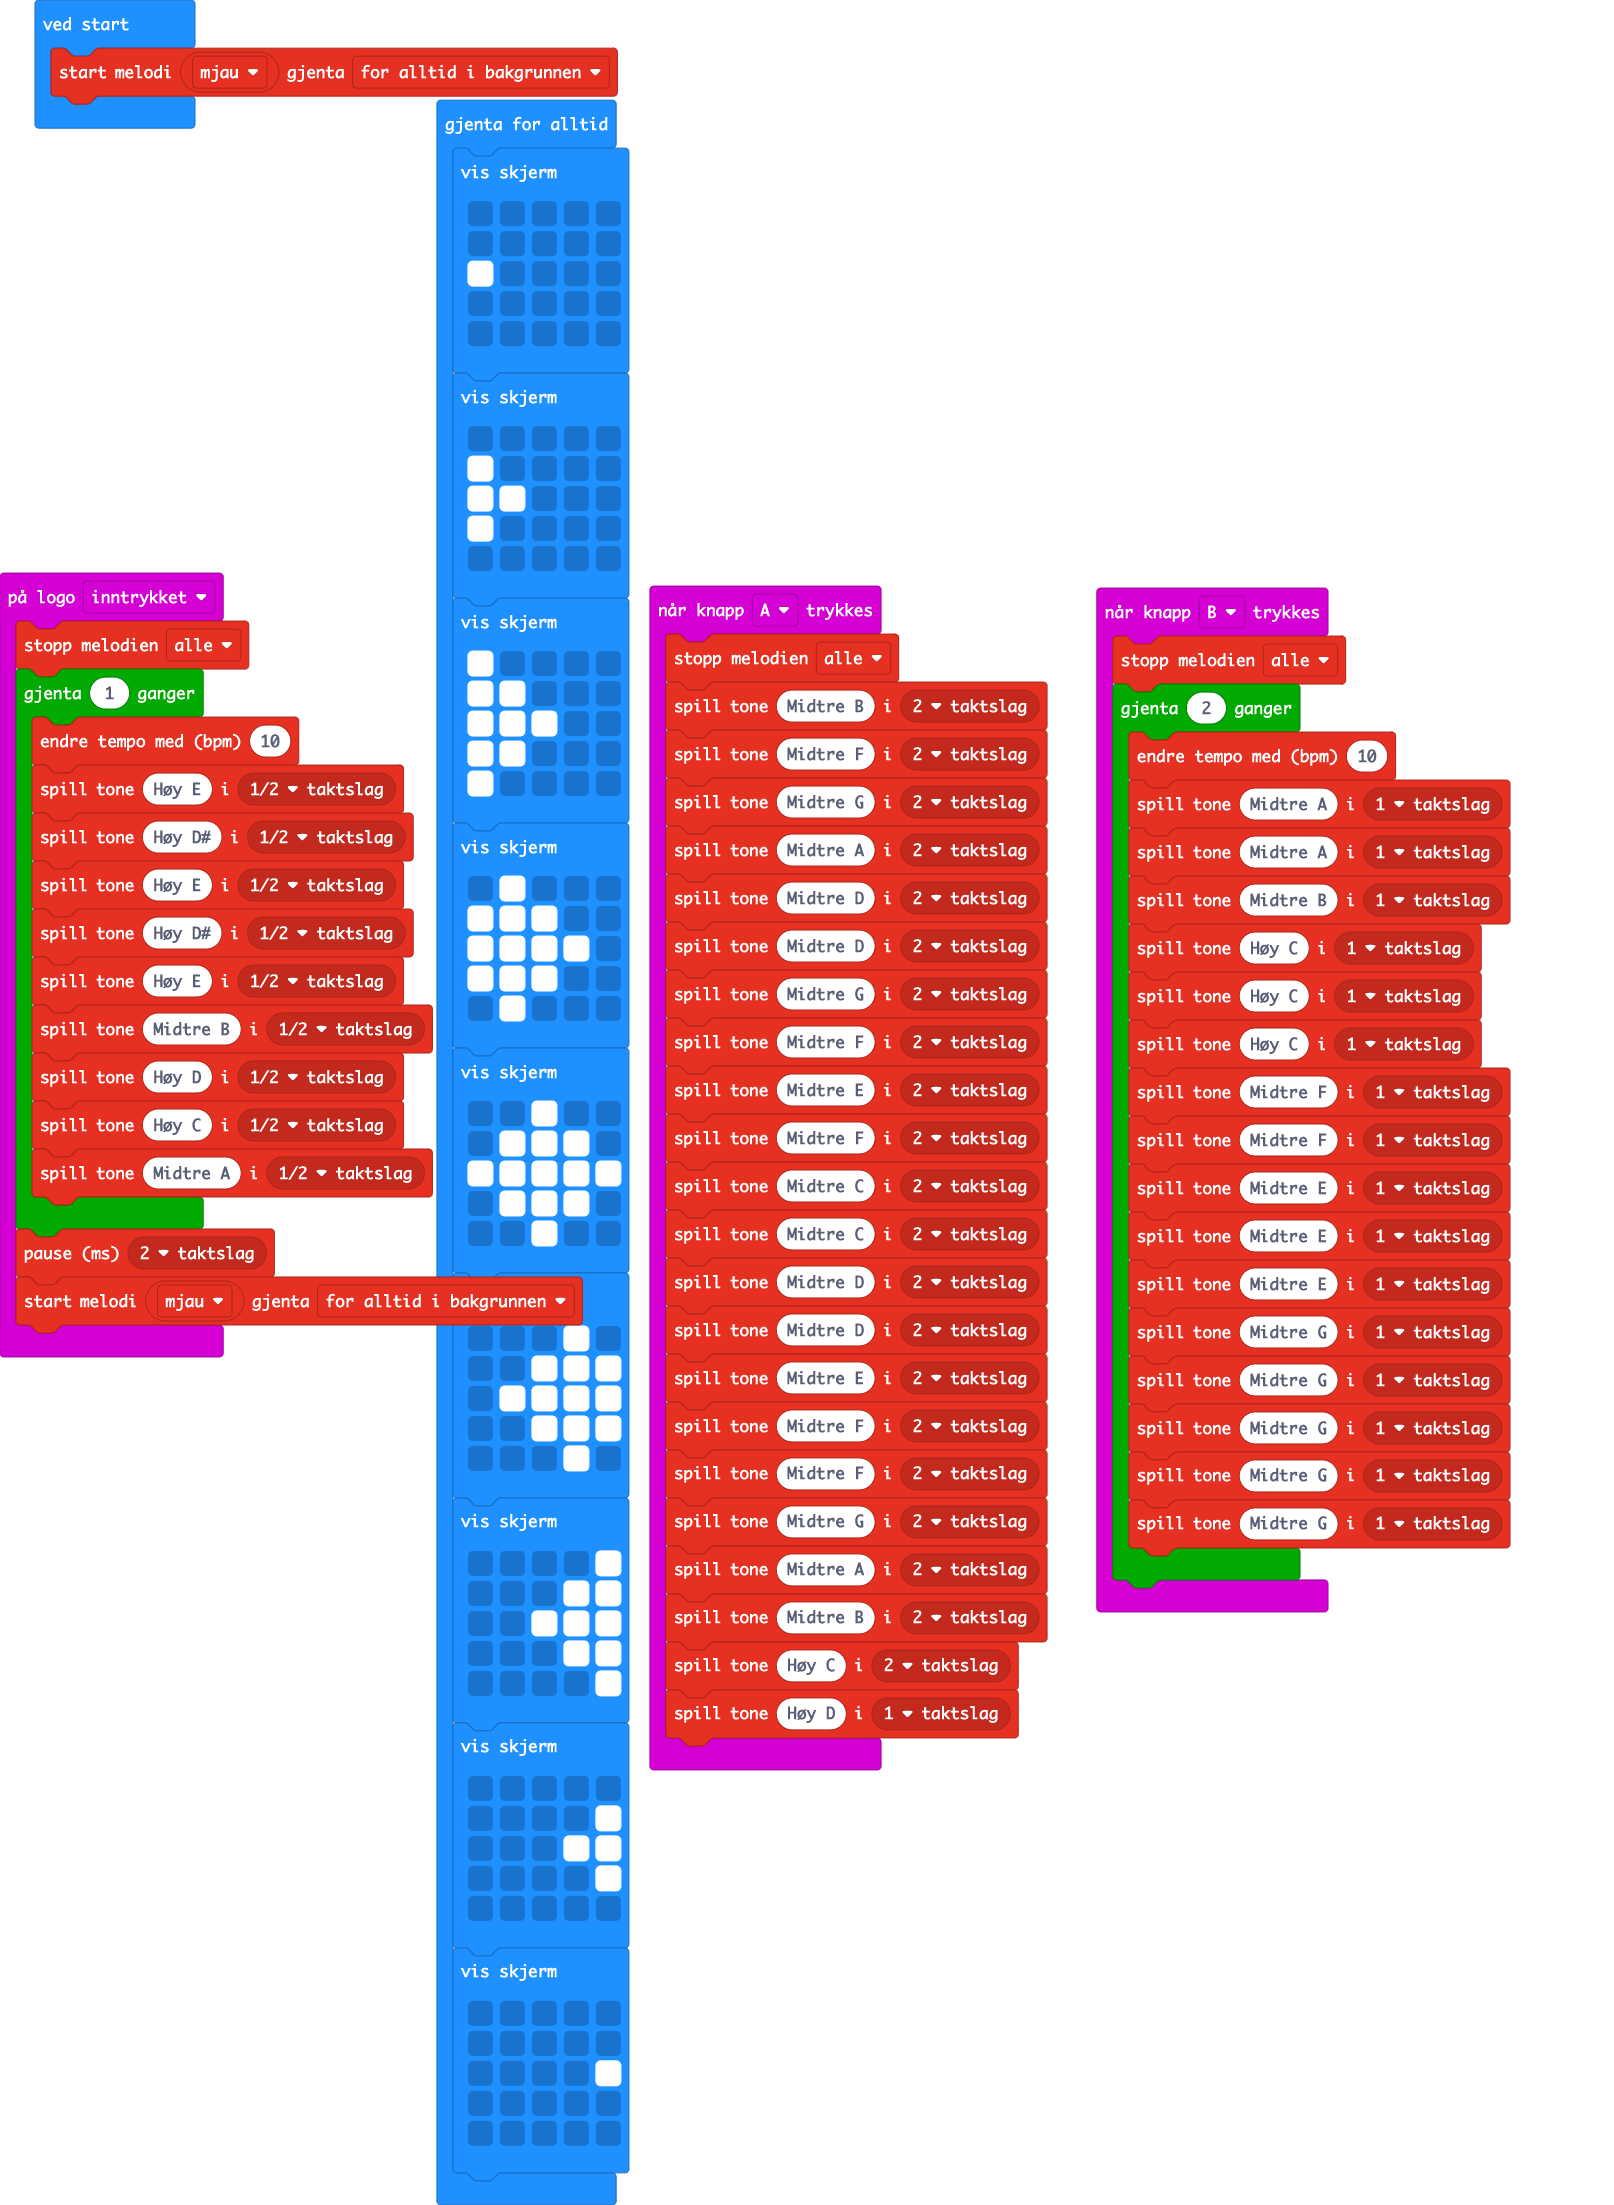
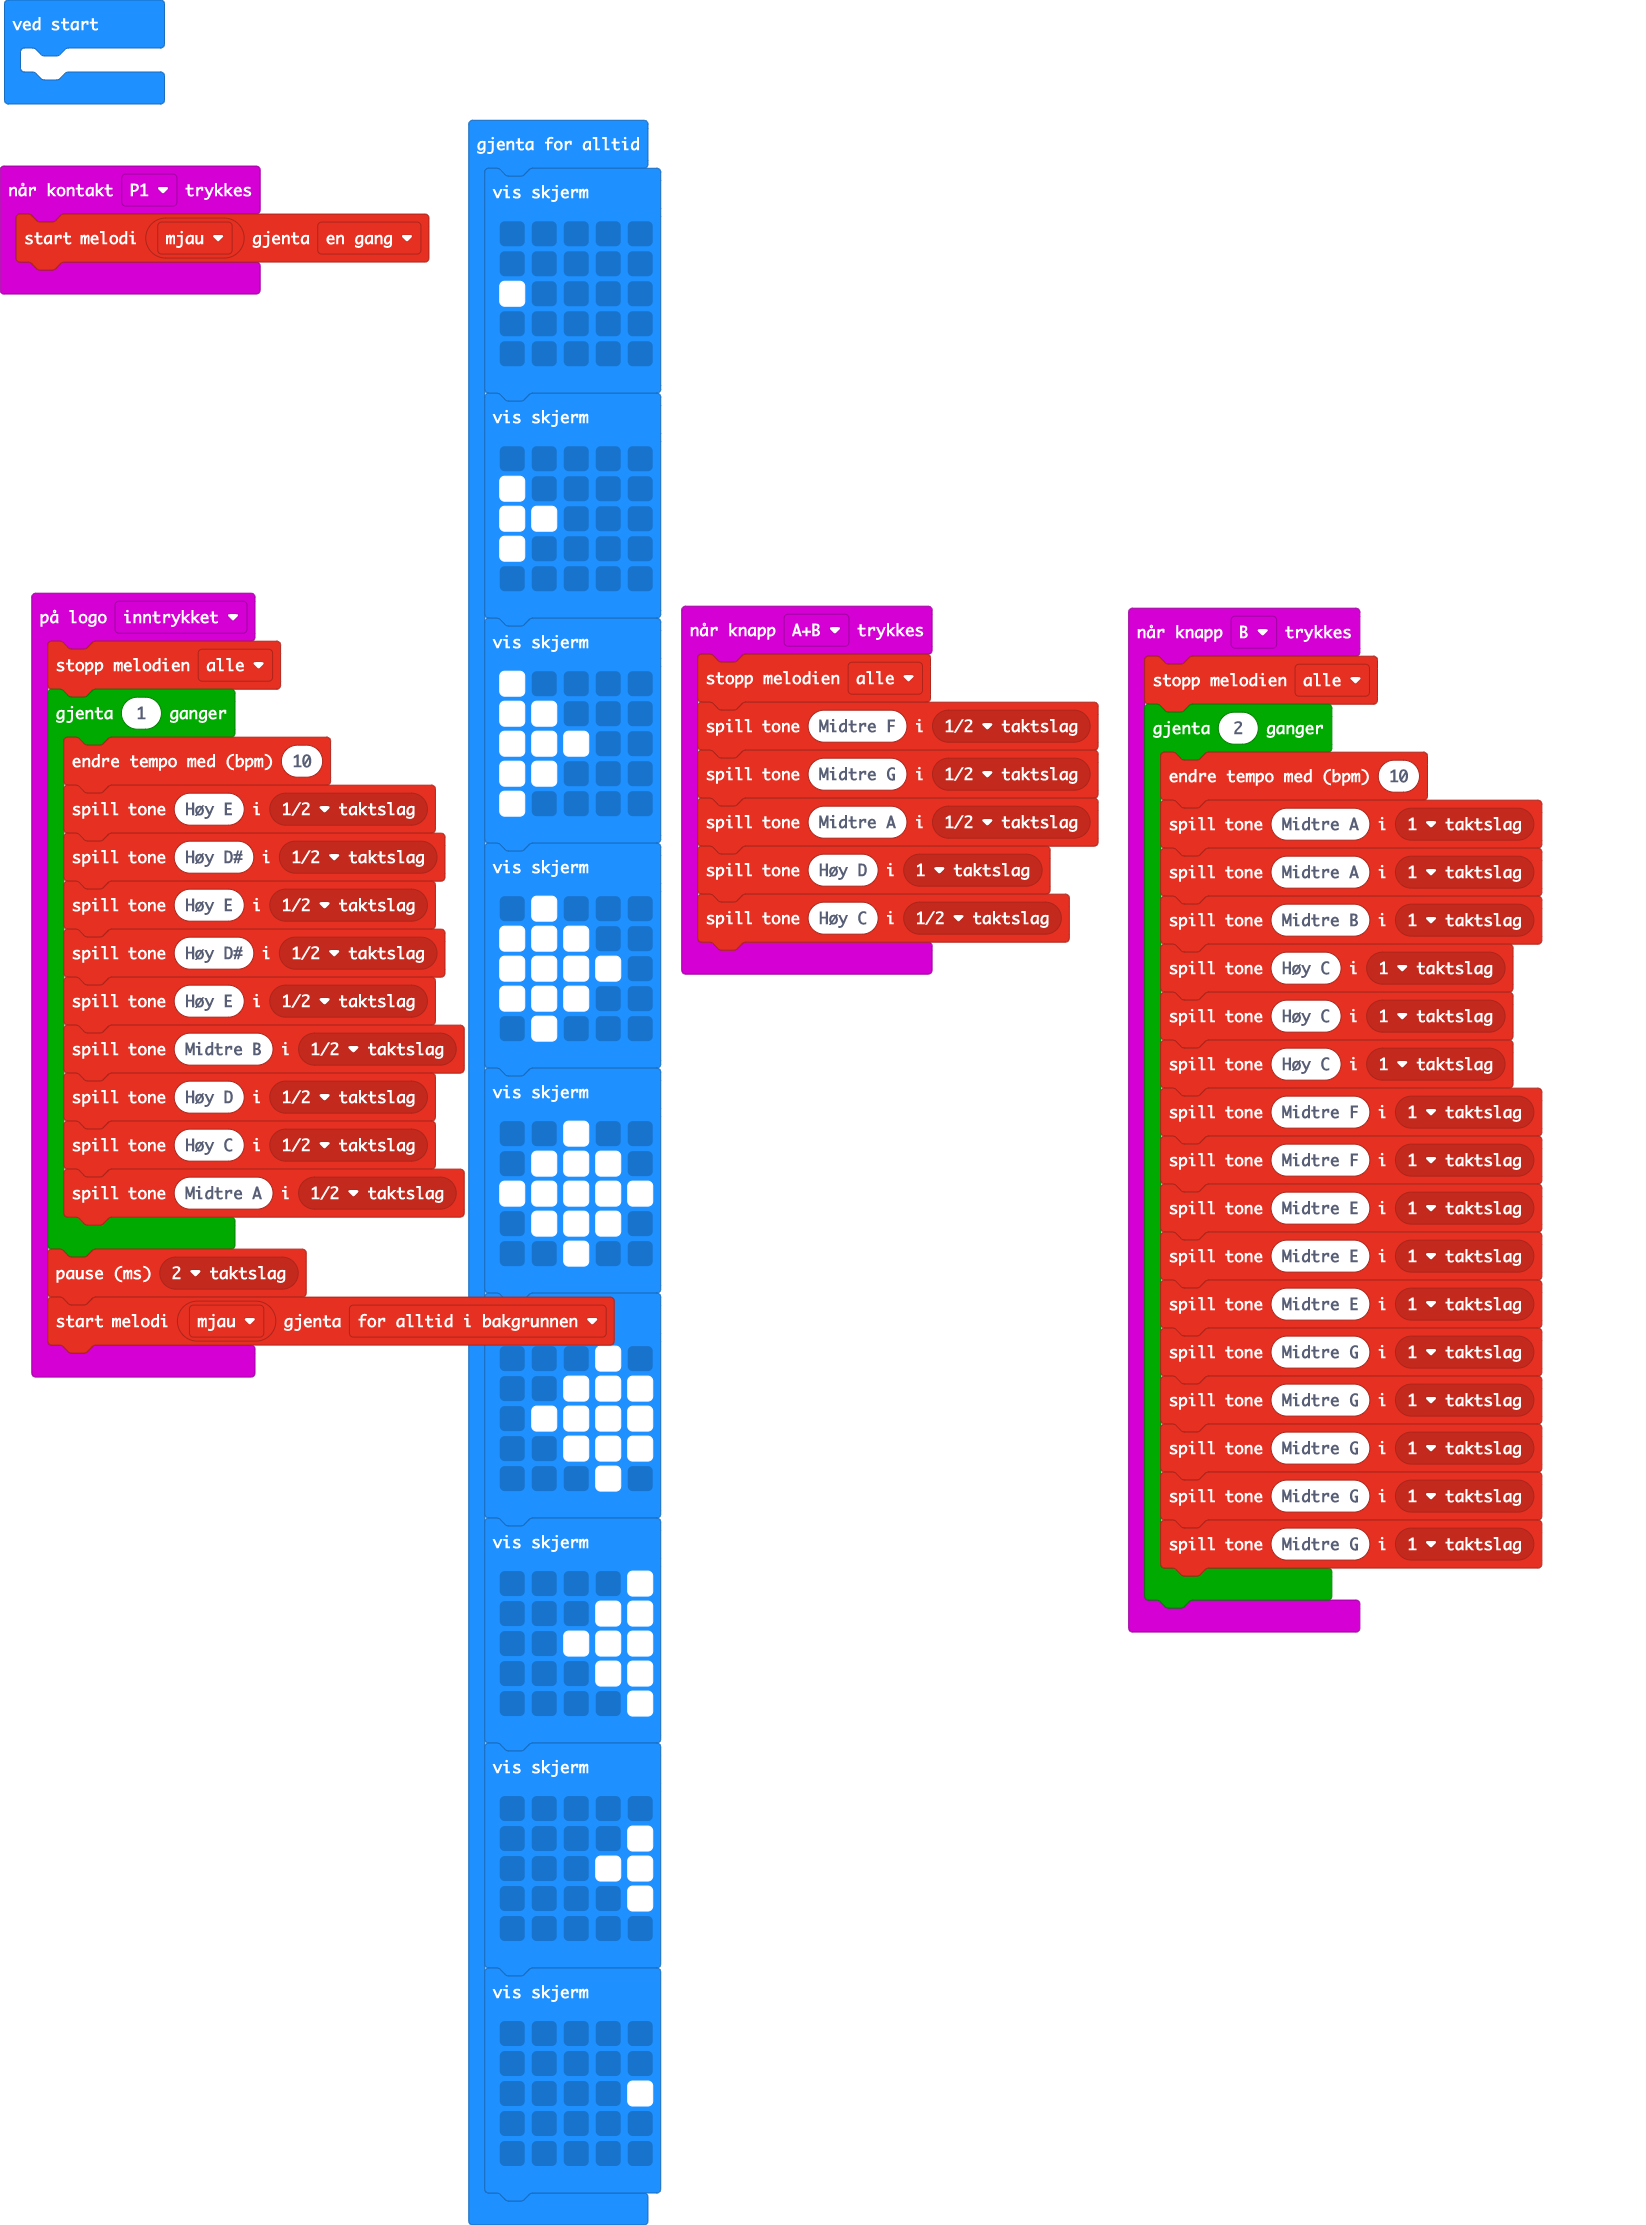
Oppdater main.blocks, main.ts

diff --git a/main.ts b/main.ts
@@ -15,30 +15,13 @@ input.onLogoEvent(TouchButtonEvent.Pressed, function () {
     music.rest(music.beat(BeatFraction.Double))
     music.startMelody(music.builtInMelody(Melodies.Nyan), MelodyOptions.ForeverInBackground)
 })
-input.onButtonPressed(Button.A, function () {
+input.onButtonPressed(Button.AB, function () {
     music.stopMelody(MelodyStopOptions.All)
-    music.playTone(494, music.beat(BeatFraction.Double))
-    music.playTone(349, music.beat(BeatFraction.Double))
-    music.playTone(392, music.beat(BeatFraction.Double))
-    music.playTone(440, music.beat(BeatFraction.Double))
-    music.playTone(294, music.beat(BeatFraction.Double))
-    music.playTone(294, music.beat(BeatFraction.Double))
-    music.playTone(392, music.beat(BeatFraction.Double))
-    music.playTone(349, music.beat(BeatFraction.Double))
-    music.playTone(330, music.beat(BeatFraction.Double))
-    music.playTone(349, music.beat(BeatFraction.Double))
-    music.playTone(262, music.beat(BeatFraction.Double))
-    music.playTone(262, music.beat(BeatFraction.Double))
-    music.playTone(294, music.beat(BeatFraction.Double))
-    music.playTone(294, music.beat(BeatFraction.Double))
-    music.playTone(330, music.beat(BeatFraction.Double))
-    music.playTone(349, music.beat(BeatFraction.Double))
-    music.playTone(349, music.beat(BeatFraction.Double))
-    music.playTone(392, music.beat(BeatFraction.Double))
-    music.playTone(440, music.beat(BeatFraction.Double))
-    music.playTone(494, music.beat(BeatFraction.Double))
-    music.playTone(523, music.beat(BeatFraction.Double))
+    music.playTone(349, music.beat(BeatFraction.Half))
+    music.playTone(392, music.beat(BeatFraction.Half))
+    music.playTone(440, music.beat(BeatFraction.Half))
     music.playTone(587, music.beat(BeatFraction.Whole))
+    music.playTone(523, music.beat(BeatFraction.Half))
 })
 input.onButtonPressed(Button.B, function () {
     music.stopMelody(MelodyStopOptions.All)
@@ -62,7 +45,9 @@ input.onButtonPressed(Button.B, function () {
         music.playTone(392, music.beat(BeatFraction.Whole))
     }
 })
-music.startMelody(music.builtInMelody(Melodies.Nyan), MelodyOptions.ForeverInBackground)
+input.onPinPressed(TouchPin.P1, function () {
+    music.startMelody(music.builtInMelody(Melodies.Nyan), MelodyOptions.Once)
+})
 basic.forever(function () {
     basic.showLeds(`
         . . . . .
